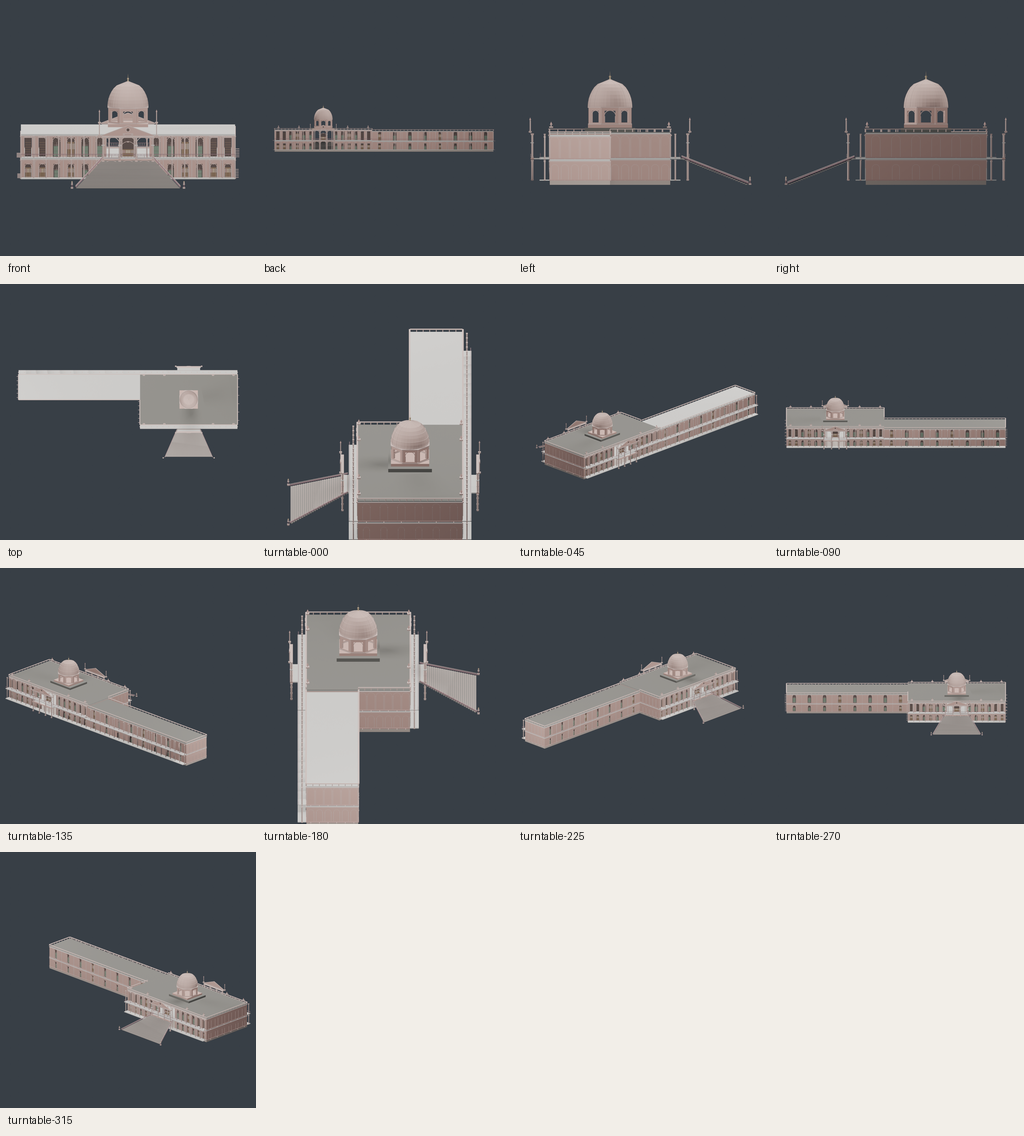
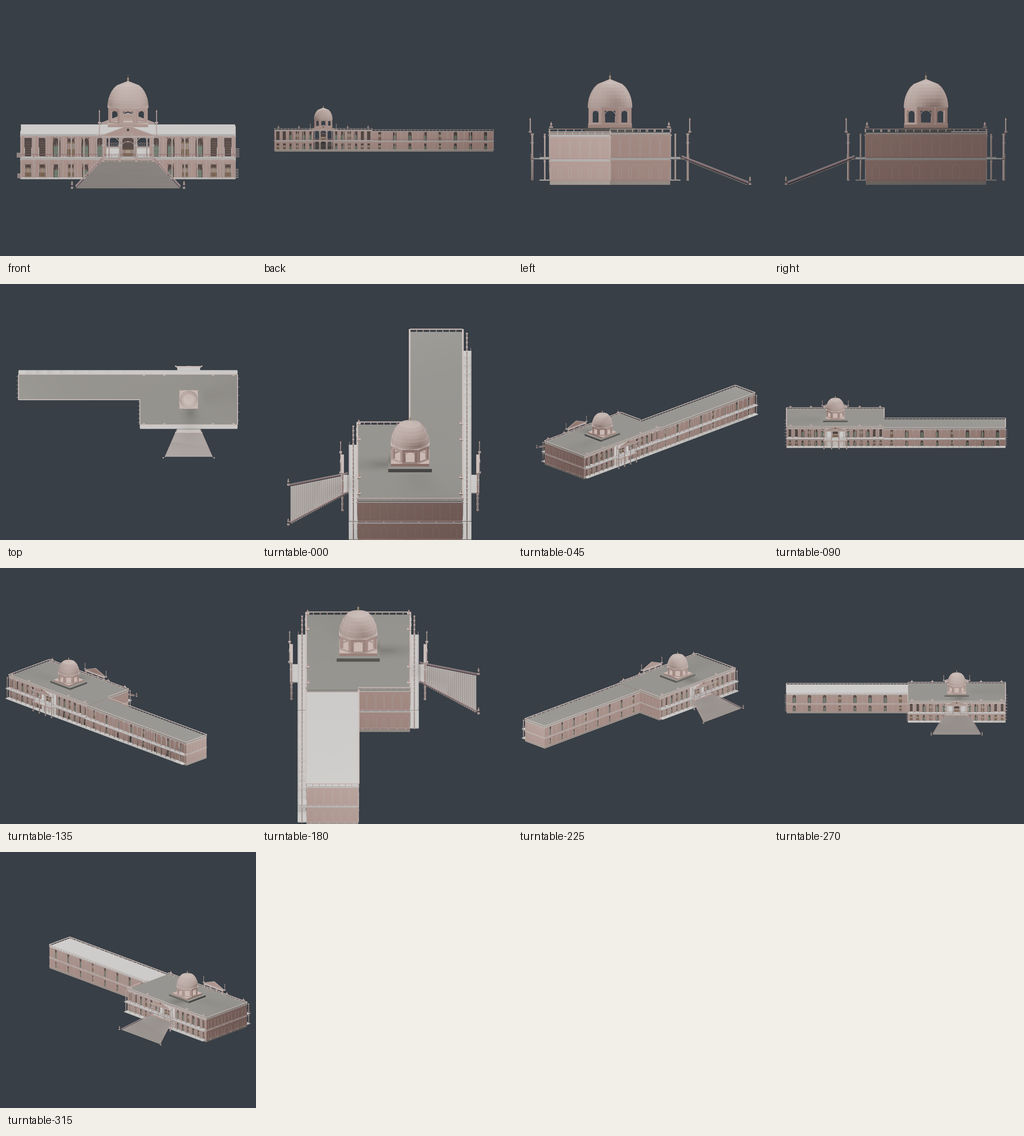
docs(heritage): record P3.3 render evidence [skip ci]

diff --git a/docs/heritage/p3.3-topology-audit.md b/docs/heritage/p3.3-topology-audit.md
@@ -63,7 +63,7 @@
 
 - Role: primary-building-base
 - Building-accuracy relevant: true
-- Triage note: The current candidate replaces the touching twin-box base with one stepped L-footprint prism. The exact candidate QA reports 1 connected component, 0 boundary edges and 0 non-manifold edges; 20 long-edge triangles remain under manual review, and the underlying footprint is still provisional.
+- Triage note: Current candidate uses one stepped L-footprint prism. QA reports one connected component and zero boundary/non-manifold edges; the long-edge warning remains and the provisional footprint still needs independent trace or survey.
 
 ### Rangmahal_GF
 
